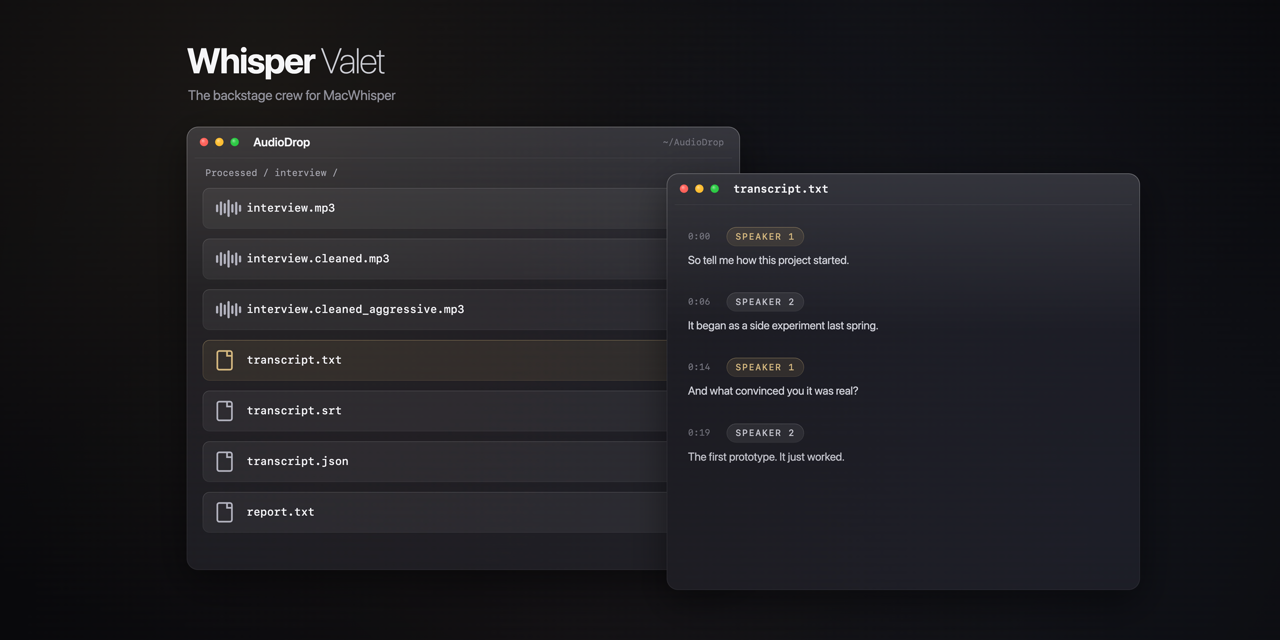
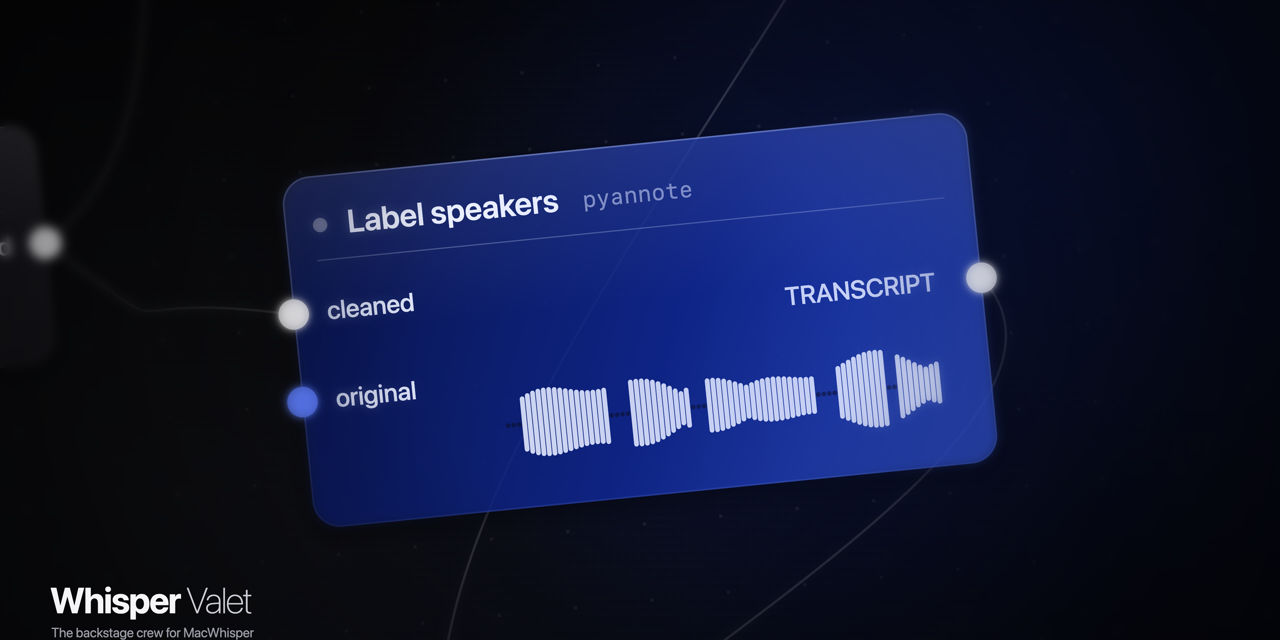
Blue system: black stage, white glass, 173FE5 highlights across video and cards

diff --git a/assets/demo-video-source.html b/assets/demo-video-source.html
@@ -4,12 +4,12 @@
 <meta charset="utf-8">
 <style>
   * { margin: 0; padding: 0; }
-  html, body { background: #0B0B0F; overflow: hidden; }
+  html, body { background: #050507; overflow: hidden; }
   canvas { display: block; }
 </style>
 </head>
 <body>
-<canvas id="c" width="2160" height="2160"></canvas>
+<canvas id="c" width="3840" height="2160"></canvas>
 <script>
 // ============================================================
 // Whisper Valet — cinematic node-graph demo. 2160x2160 @60fps, 20s.
@@ -17,7 +17,7 @@
 // pyannote node, execution flows through glowing wires, transcript
 // fills a preview node. Deterministic per frame.
 // ============================================================
-const W = 2160, H = 2160;
+const W = 3840, H = 2160;
 const cnv = document.getElementById('c');
 const ctx = cnv.getContext('2d');
 const FPS = 60, DUR = 20;
@@ -34,7 +34,7 @@ const seg = (s, a, b) => cl((s - a) / (b - a));
 const lerp = (a, b, t) => a + (b - a) * t;
 
 // ---- palette / fonts ----
-const GOLD = '#C9A96A', GOLD_T = '#D4B77E', LIGHT = '#D9DAE0';
+const GOLD = '#173FE5', GOLD_T = '#7E97FF', LIGHT = '#D9DAE0';
 const TXT = '#F2F2F5', SUB = '#A6A6AF', DIM = '#75757F';
 const SANS = '-apple-system, "SF Pro Display", "Helvetica Neue", sans-serif';
 const MONO = '"SF Mono", Menlo, monospace';
@@ -85,10 +85,10 @@ const P = {
   whisperIn:   { x: N.whisper.x,            y: N.whisper.y + 170, c: '#F2F2F5' },
   whisperOut:  { x: N.whisper.x + N.whisper.w, y: N.whisper.y + 170, c: '#F2F2F5' },
   pyCleaned:   { x: N.pyannote.x,           y: N.pyannote.y + 170, c: '#F2F2F5' },
-  pyOriginal:  { x: N.pyannote.x,           y: N.pyannote.y + 280, c: '#E8863C' },
+  pyOriginal:  { x: N.pyannote.x,           y: N.pyannote.y + 280, c: '#5E7EFF' },
   pyOut:       { x: N.pyannote.x + N.pyannote.w, y: N.pyannote.y + 210, c: '#F2F2F5' },
   prevWords:   { x: N.preview.x,            y: N.preview.y + 150, c: '#F2F2F5' },
-  prevSpk:     { x: N.preview.x,            y: N.preview.y + 250, c: '#E8863C' },
+  prevSpk:     { x: N.preview.x,            y: N.preview.y + 250, c: '#5E7EFF' },
 };
 // wires: from, to, control offsets, activeDuring (stage key or 'final')
 const WIRES = [
@@ -103,16 +103,19 @@ const WIRES = [
 
 // ---- camera keyframes {t, cx, cy, z} ----
 const CAM = [
-  { t: 0.0,  cx: 2710, cy: 1380, z: 1.30 },
-  { t: 1.0,  cx: 2710, cy: 1380, z: 1.30 },
-  { t: 2.3,  cx: 1050, cy: 1000, z: 0.72 },
-  { t: 3.6,  cx: 1560, cy: 1030, z: 0.60 },
-  { t: 7.2,  cx: 1900, cy: 1000, z: 0.62 },
-  { t: 9.8,  cx: 2420, cy: 1080, z: 0.68 },
-  { t: 11.4, cx: 2680, cy: 1360, z: 0.78 },
-  { t: 13.6, cx: 2840, cy: 2140, z: 0.80 },
-  { t: 17.5, cx: 2870, cy: 2230, z: 0.88 },
-  { t: 20.0, cx: 2870, cy: 2250, z: 0.90 },
+  { t: 0.0,  cx: 2710, cy: 1380, z: 2.40 },   // amber card close (thumbnail)
+  { t: 1.0,  cx: 2710, cy: 1380, z: 2.40 },
+  { t: 2.2,  cx: 700,  cy: 850,  z: 1.55 },   // drag arrives at the source area
+  { t: 3.2,  cx: 570,  cy: 810,  z: 2.60 },   // tight on source
+  { t: 4.3,  cx: 1630, cy: 590,  z: 2.55 },   // demucs running
+  { t: 6.5,  cx: 1630, cy: 590,  z: 2.55 },
+  { t: 7.1,  cx: 1650, cy: 1210, z: 2.65 },   // loudnorm
+  { t: 8.2,  cx: 2730, cy: 600,  z: 2.35 },   // whisper params
+  { t: 9.9,  cx: 2710, cy: 1380, z: 2.45 },   // pyannote labels land
+  { t: 11.6, cx: 2760, cy: 1700, z: 1.95 },   // follow the transcript wire down
+  { t: 13.6, cx: 2880, cy: 2260, z: 2.05 },   // preview fills
+  { t: 17.5, cx: 2880, cy: 2320, z: 2.20 },
+  { t: 20.0, cx: 2880, cy: 2330, z: 2.25 },
 ];
 function camera(s) {
   let i = 0;
@@ -127,15 +130,15 @@ const orbCanvas = document.createElement('canvas');
 orbCanvas.width = W / 12; orbCanvas.height = H / 12;
 (function () {
   const o = orbCanvas.getContext('2d');
-  o.fillStyle = '#0B0B0F'; o.fillRect(0, 0, orbCanvas.width, orbCanvas.height);
+  o.fillStyle = '#050507'; o.fillRect(0, 0, orbCanvas.width, orbCanvas.height);
   const orb = (x, y, r, c, a) => {
     const g = o.createRadialGradient(x*orbCanvas.width, y*orbCanvas.height, 0, x*orbCanvas.width, y*orbCanvas.height, r*orbCanvas.width);
     g.addColorStop(0, `rgba(${c},${a})`); g.addColorStop(1, `rgba(${c},0)`);
     o.fillStyle = g; o.fillRect(0, 0, orbCanvas.width, orbCanvas.height);
   };
-  orb(0.85, 0.25, 0.55, '190,95,40', 0.14);
-  orb(0.15, 0.75, 0.5,  '91,107,140', 0.10);
-  orb(0.5, 1.05, 0.4,   '160,120,90', 0.07);
+  orb(0.85, 0.25, 0.55, '23,63,229', 0.15);
+  orb(0.15, 0.75, 0.5,  '120,128,150', 0.08);
+  orb(0.5, 1.05, 0.4,   '30,52,150', 0.08);
 })();
 
 // ---- DOF edge mask (center sharp, edges blurred) ----
@@ -162,9 +165,9 @@ function nodeGlass(c, n, alpha, state) {
   c.shadowColor = 'rgba(0,0,0,0.55)'; c.shadowBlur = 70; c.shadowOffsetY = 24;
   if (n.amber) {
     const g = c.createLinearGradient(n.x, n.y, n.x + n.w, n.y + n.h);
-    g.addColorStop(0, 'rgba(122,58,30,0.97)');
-    g.addColorStop(0.55, 'rgba(158,86,44,0.95)');
-    g.addColorStop(1, 'rgba(206,144,84,0.9)');
+    g.addColorStop(0, 'rgba(9,22,88,0.97)');
+    g.addColorStop(0.55, 'rgba(16,42,158,0.95)');
+    g.addColorStop(1, 'rgba(56,94,236,0.9)');
     c.fillStyle = g;
   } else {
     const g = c.createLinearGradient(n.x, n.y, n.x, n.y + n.h);
@@ -182,12 +185,12 @@ function nodeGlass(c, n, alpha, state) {
   rr(c, n.x, n.y, n.w, n.h * 0.45, 34); c.fill();
   // border: gold glow while active
   if (state === 1) {
-    c.shadowColor = 'rgba(201,169,106,0.8)'; c.shadowBlur = 34;
-    c.strokeStyle = 'rgba(212,183,126,0.85)'; c.lineWidth = 3;
+    c.shadowColor = 'rgba(23,63,229,0.8)'; c.shadowBlur = 34;
+    c.strokeStyle = 'rgba(126,151,255,0.85)'; c.lineWidth = 3;
   } else {
     const bg = c.createLinearGradient(0, n.y, 0, n.y + n.h);
-    bg.addColorStop(0, n.amber ? 'rgba(255,235,210,0.5)' : 'rgba(255,255,255,0.22)');
-    bg.addColorStop(1, n.amber ? 'rgba(255,235,210,0.12)' : 'rgba(255,255,255,0.06)');
+    bg.addColorStop(0, n.amber ? 'rgba(190,205,255,0.5)' : 'rgba(255,255,255,0.22)');
+    bg.addColorStop(1, n.amber ? 'rgba(190,205,255,0.12)' : 'rgba(255,255,255,0.06)');
     c.strokeStyle = bg; c.lineWidth = 2;
   }
   rr(c, n.x + 1, n.y + 1, n.w - 2, n.h - 2, 34); c.stroke();
@@ -200,8 +203,8 @@ function nodeHeader(c, n, alpha, state, doneP) {
   const hx = n.x + 44, hy = n.y + 62;
   // status glyph
   if (state === 2) {           // check
-    c.strokeStyle = n.amber ? '#FFE9C4' : GOLD; c.lineWidth = 5; c.lineCap = 'round'; c.lineJoin = 'round';
-    c.shadowColor = 'rgba(201,169,106,0.5)'; c.shadowBlur = 12;
+    c.strokeStyle = n.amber ? '#CBD8FF' : GOLD; c.lineWidth = 5; c.lineCap = 'round'; c.lineJoin = 'round';
+    c.shadowColor = 'rgba(23,63,229,0.5)'; c.shadowBlur = 12;
     const t = eoc(cl(doneP)); const sx = hx, sy = hy;
     c.beginPath(); c.moveTo(sx - 14, sy + 2);
     if (t < 0.45) { const k = t/0.45; c.lineTo(sx - 14 + 10*k, sy + 2 + 10*k); }
@@ -211,14 +214,14 @@ function nodeHeader(c, n, alpha, state, doneP) {
     c.fillStyle = state === 1 ? GOLD_T : 'rgba(255,255,255,0.4)';
     c.beginPath(); c.arc(hx, hy, 9, 0, 7); c.fill();
   }
-  const tcol = n.amber ? '#FFF6EA' : TXT;
+  const tcol = n.amber ? '#F0F4FF' : TXT;
   c.fillStyle = tcol; c.font = F(600, 40); c.textBaseline = 'middle';
   c.fillText(n.title, hx + 34, hy + 1);
   const tw = c.measureText(n.title).width;
   c.font = F(400, 28, true);
-  c.fillStyle = n.amber ? 'rgba(255,240,220,0.55)' : DIM;
+  c.fillStyle = n.amber ? 'rgba(225,232,255,0.55)' : DIM;
   c.fillText(n.tool, hx + 34 + tw + 30, hy + 3);
-  c.strokeStyle = n.amber ? 'rgba(255,245,230,0.28)' : 'rgba(255,255,255,0.09)';
+  c.strokeStyle = n.amber ? 'rgba(220,230,255,0.28)' : 'rgba(255,255,255,0.09)';
   c.lineWidth = 1.5;
   c.beginPath(); c.moveTo(n.x + 36, n.y + 106); c.lineTo(n.x + n.w - 36, n.y + 106); c.stroke();
   c.restore();
@@ -235,7 +238,7 @@ function portLabel(c, p, text, side, alpha, amber) {
   c.save();
   c.globalAlpha = alpha;
   c.font = F(500, 32);
-  c.fillStyle = amber ? '#FFF2E2' : '#D6D6DE';
+  c.fillStyle = amber ? '#E8EEFF' : '#D6D6DE';
   c.textBaseline = 'middle';
   const w = c.measureText(text).width;
   c.fillText(text, side === 'l' ? p.x + 42 : p.x - 42 - w, p.y + 1);
@@ -287,9 +290,9 @@ function chipC(c, label, cx, cy, gold, alpha, scale) {
   c.font = F(500, 24 * scale, true);
   const pad = 20 * scale, tw = c.measureText(label).width + label.length * 2.6 * scale;
   const w = tw + pad*2, h = 48 * scale, x = cx - 0, y = cy - h/2;
-  c.fillStyle = gold ? 'rgba(201,169,106,0.13)' : 'rgba(255,255,255,0.07)';
+  c.fillStyle = gold ? 'rgba(23,63,229,0.13)' : 'rgba(255,255,255,0.07)';
   rr(c, x, y, w, h, h/2); c.fill();
-  c.strokeStyle = gold ? 'rgba(212,183,126,0.45)' : 'rgba(255,255,255,0.16)';
+  c.strokeStyle = gold ? 'rgba(126,151,255,0.45)' : 'rgba(255,255,255,0.16)';
   c.lineWidth = 1.5; rr(c, x, y, w, h, h/2); c.stroke();
   c.fillStyle = gold ? GOLD_T : '#C2C2CB';
   c.textBaseline = 'middle';
@@ -322,20 +325,20 @@ function appTileC(c, x, y, s, alpha) {
   c.save(); c.globalAlpha = alpha;
   c.shadowColor = 'rgba(0,0,0,0.4)'; c.shadowBlur = 40; c.shadowOffsetY = 12;
   const g = c.createLinearGradient(0, y, 0, y + s);
-  g.addColorStop(0, 'rgba(212,183,126,0.30)');
-  g.addColorStop(1, 'rgba(160,120,70,0.16)');
+  g.addColorStop(0, 'rgba(126,151,255,0.30)');
+  g.addColorStop(1, 'rgba(23,63,229,0.20)');
   c.fillStyle = g; rr(c, x, y, s, s, s*0.24); c.fill();
   c.shadowColor = 'transparent';
   const bg = c.createLinearGradient(0, y, 0, y + s);
-  bg.addColorStop(0, 'rgba(255,235,200,0.55)');
-  bg.addColorStop(1, 'rgba(212,183,126,0.12)');
+  bg.addColorStop(0, 'rgba(190,205,255,0.55)');
+  bg.addColorStop(1, 'rgba(126,151,255,0.12)');
   c.strokeStyle = bg; c.lineWidth = 2;
   rr(c, x+1, y+1, s-2, s-2, s*0.24); c.stroke();
   const sh = c.createLinearGradient(0, y, 0, y + s*0.5);
   sh.addColorStop(0, 'rgba(255,255,255,0.22)');
   sh.addColorStop(1, 'rgba(255,255,255,0)');
   c.fillStyle = sh; rr(c, x, y, s, s*0.5, s*0.24); c.fill();
-  c.fillStyle = '#F0DDB8';
+  c.fillStyle = '#D6E0FF';
   c.font = `650 ${s*0.52}px ${SANS}`;
   c.textBaseline = 'middle'; c.textAlign = 'center';
   c.fillText('W', x + s/2, y + s/2 + s*0.03);
@@ -357,7 +360,7 @@ function notification(c, s, a, b, title, body) {
   const tout = 1 - eic(seg(s, b - 0.4, b));
   const al = Math.min(tin, tout);
   if (al <= 0) return;
-  const w = 700, h = 150;
+  const w = 880, h = 172;
   const x = W - 70 - w + (1 - tin) * (w + 110), y = 90;
   c.save(); c.globalAlpha = al;
   c.shadowColor = 'rgba(0,0,0,0.5)'; c.shadowBlur = 60; c.shadowOffsetY = 20;
@@ -369,11 +372,11 @@ function notification(c, s, a, b, title, body) {
   bg.addColorStop(1, 'rgba(255,255,255,0.06)');
   c.strokeStyle = bg; c.lineWidth = 2;
   rr(c, x+1, y+1, w-2, h-2, 30); c.stroke();
-  appTileC(c, x + 28, y + 33, 84, 1);
-  c.fillStyle = TXT; c.font = F(600, 33); c.textBaseline = 'middle';
-  c.fillText(title, x + 140, y + 58);
-  c.fillStyle = SUB; c.font = F(400, 29);
-  c.fillText(body, x + 140, y + 104);
+  appTileC(c, x + 30, y + 38, 96, 1);
+  c.fillStyle = TXT; c.font = F(600, 38); c.textBaseline = 'middle';
+  c.fillText(title, x + 156, y + 66);
+  c.fillStyle = SUB; c.font = F(400, 33);
+  c.fillText(body, x + 156, y + 120);
   c.restore();
 }
 
@@ -412,9 +415,9 @@ window.renderFrame = function(frame) {
     const [t0, t1] = wr.st === 'final' ? [11.0, 99] : SCHED[wr.st];
     const active = s >= t0 && s <= t1 + 0.3;
     const done = s > t1 + 0.3;
-    ctx.strokeStyle = active ? 'rgba(212,183,126,0.65)' : (done ? 'rgba(255,255,255,0.30)' : 'rgba(255,255,255,0.16)');
+    ctx.strokeStyle = active ? 'rgba(126,151,255,0.65)' : (done ? 'rgba(255,255,255,0.30)' : 'rgba(255,255,255,0.16)');
     ctx.lineWidth = active ? 4.5 : 3;
-    if (active) { ctx.shadowColor = 'rgba(201,169,106,0.5)'; ctx.shadowBlur = 16; }
+    if (active) { ctx.shadowColor = 'rgba(23,63,229,0.5)'; ctx.shadowBlur = 16; }
     ctx.beginPath();
     ctx.moveTo(pts[0], pts[1]);
     ctx.bezierCurveTo(pts[2], pts[3], pts[4], pts[5], pts[6], pts[7]);
@@ -426,8 +429,8 @@ window.renderFrame = function(frame) {
         const u = ((s * 0.55 + k * 0.333) % 1);
         const p = bezPoint(pts, u);
         ctx.save();
-        ctx.shadowColor = '#FFD9A0'; ctx.shadowBlur = 26;
-        ctx.fillStyle = '#FFE9C4';
+        ctx.shadowColor = '#9FB4FF'; ctx.shadowBlur = 26;
+        ctx.fillStyle = '#CBD8FF';
         ctx.beginPath(); ctx.arc(p.x, p.y, 11, 0, 7); ctx.fill();
         ctx.restore();
       }
@@ -503,9 +506,9 @@ window.renderFrame = function(frame) {
     if (st === 1) {
       const pp = seg(s, SCHED.demucs[0], SCHED.demucs[1]);
       ctx.fillStyle = 'rgba(255,255,255,0.10)';
-      rr(ctx, n.x + 44, n.y + 150, n.w - 88, 5, 2.5); ctx.fill();
+      rr(ctx, n.x + 44, n.y + 338, n.w - 88, 5, 2.5); ctx.fill();
       ctx.fillStyle = GOLD;
-      rr(ctx, n.x + 44, n.y + 150, (n.w - 88) * pp, 5, 2.5); ctx.fill();
+      rr(ctx, n.x + 44, n.y + 338, (n.w - 88) * pp, 5, 2.5); ctx.fill();
     }
     ctx.restore();
   }
@@ -549,9 +552,9 @@ window.renderFrame = function(frame) {
     if (st === 1) {
       const pp = seg(s, SCHED.whisper[0], SCHED.whisper[1]);
       ctx.fillStyle = 'rgba(255,255,255,0.10)';
-      rr(ctx, n.x + 44, n.y + 160, n.w - 88, 5, 2.5); ctx.fill();
+      rr(ctx, n.x + 44, n.y + 508, n.w - 88, 5, 2.5); ctx.fill();
       ctx.fillStyle = GOLD;
-      rr(ctx, n.x + 44, n.y + 160, (n.w - 88) * pp, 5, 2.5); ctx.fill();
+      rr(ctx, n.x + 44, n.y + 508, (n.w - 88) * pp, 5, 2.5); ctx.fill();
     }
   }
   // pyannote node (amber hero)
@@ -565,7 +568,7 @@ window.renderFrame = function(frame) {
     portLabel(ctx, P.pyOriginal, 'original', 'l', 1, true);
     portDot(ctx, P.pyOut, 1, st >= 1);
     ctx.save(); ctx.globalAlpha = 1;
-    ctx.font = F(500, 32); ctx.fillStyle = 'rgba(255,246,234,0.92)';
+    ctx.font = F(500, 32); ctx.fillStyle = 'rgba(232,238,255,0.92)';
     ctx.textBaseline = 'middle';
     const ow = ctx.measureText('TRANSCRIPT').width;
     ctx.fillText('TRANSCRIPT', P.pyOut.x - 58 - ow, P.pyOut.y + 1);
@@ -576,9 +579,9 @@ window.renderFrame = function(frame) {
       const env = envelope(t);
       const sp = mturn(t);
       const hh = sp < 0 ? 6 : 12 + env * 88;
-      let fill = 'rgba(255,246,234,0.9)';
-      if (sp < 0) fill = 'rgba(40,22,12,0.5)';
-      else if (sp === 0 && colorP > 0) fill = '#F5D9A8';
+      let fill = 'rgba(232,238,255,0.9)';
+      if (sp < 0) fill = 'rgba(8,12,32,0.55)';
+      else if (sp === 0 && colorP > 0) fill = '#A6BAFF';
       ctx.fillStyle = fill;
       rr(ctx, n.x + 250 + t * (n.w - 320), n.y + n.h - 105 - hh/2, 6, hh, 3); ctx.fill();
     }
@@ -597,7 +600,7 @@ window.renderFrame = function(frame) {
     LINES.forEach((ln, i) => {
       const la = eoc(seg(s, 13.8 + i * 0.55, 14.25 + i * 0.55));
       if (la <= 0) return;
-      const ly = n.y + 210 + i * 160 + (1 - la) * 14;
+      const ly = n.y + 330 + i * 150 + (1 - la) * 14;
       ctx.save(); ctx.globalAlpha = la;
       ctx.fillStyle = DIM; ctx.font = F(400, 24, true); ctx.textBaseline = 'middle';
       ctx.fillText(ln[0], n.x + 56, ly);
@@ -619,7 +622,7 @@ window.renderFrame = function(frame) {
   const dragP = seg(s, 1.15, 2.25);
   if (dragP > 0 && s < 2.25) {
     const e = eio(dragP);
-    const sx = 60, sy = 1900, exx = N.src.x + N.src.w/2, eyy = N.src.y + N.src.h/2;
+    const sx = -60, sy = 1560, exx = N.src.x + N.src.w/2, eyy = N.src.y + N.src.h/2;
     const mxx = (sx + exx)/2 - 200, myy = Math.min(sy, eyy) - 380;
     const b2 = (a, b, c2, t) => (1-t)*(1-t)*a + 2*(1-t)*t*b + t*t*c2;
     const cxp = b2(sx, mxx, exx, e), cyp = b2(sy, myy, eyy, e);
@@ -661,8 +664,8 @@ window.renderFrame = function(frame) {
 
   // warm wash + vignette (screen space)
   const wash = ctx.createRadialGradient(W*0.62, H*0.42, 100, W*0.62, H*0.42, 1600);
-  wash.addColorStop(0, 'rgba(214,120,50,0.10)');
-  wash.addColorStop(0.6, 'rgba(180,90,40,0.03)');
+  wash.addColorStop(0, 'rgba(23,63,229,0.10)');
+  wash.addColorStop(0.6, 'rgba(23,63,229,0.03)');
   wash.addColorStop(1, 'rgba(0,0,0,0)');
   ctx.fillStyle = wash; ctx.fillRect(0, 0, W, H);
   const vg = ctx.createRadialGradient(W/2, H/2, H*0.3, W/2, H/2, H*0.95);